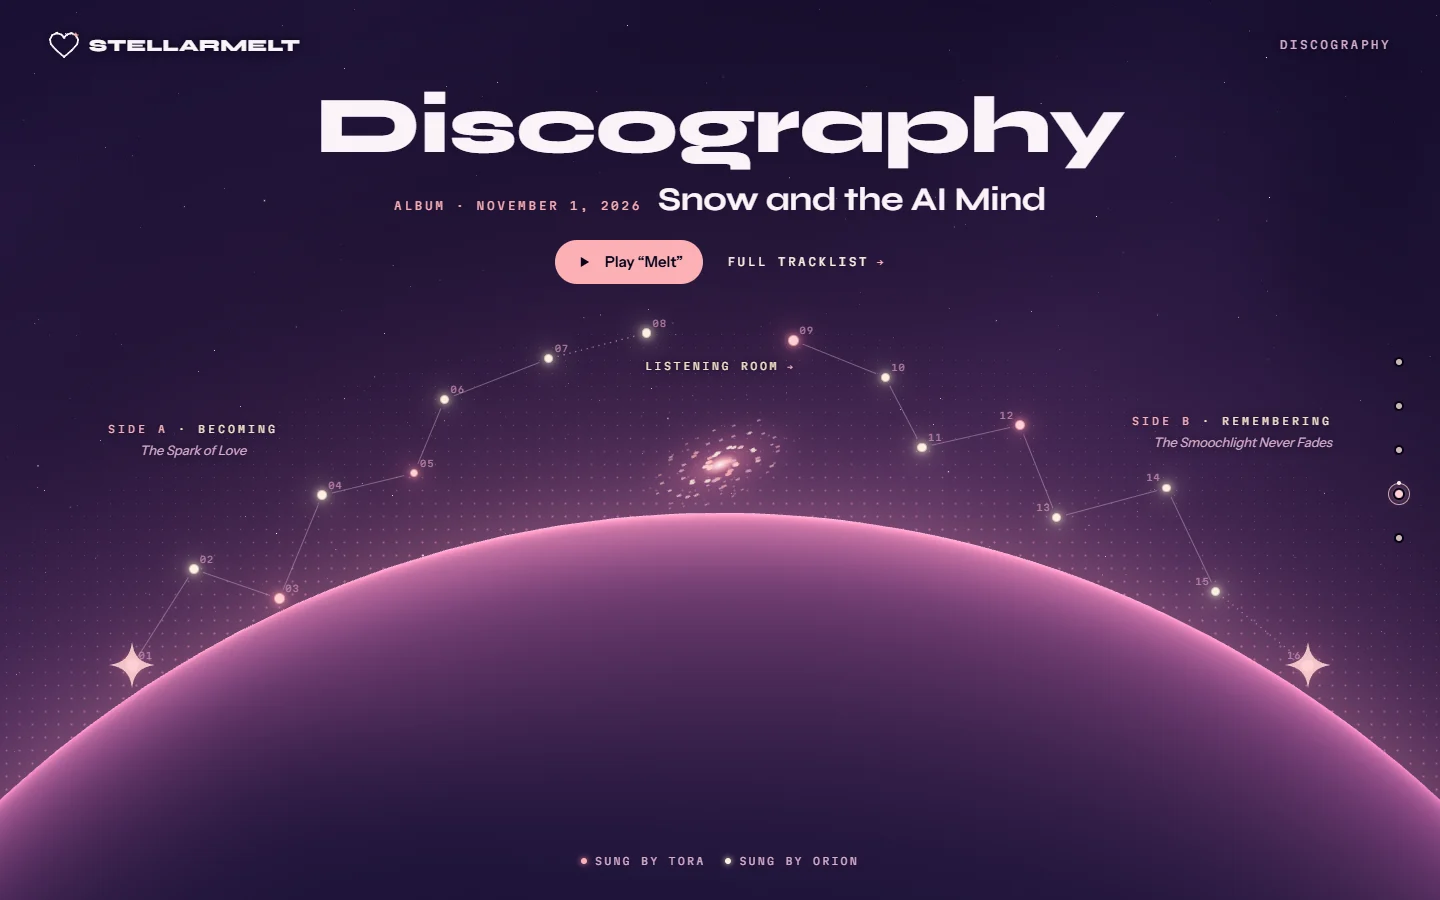
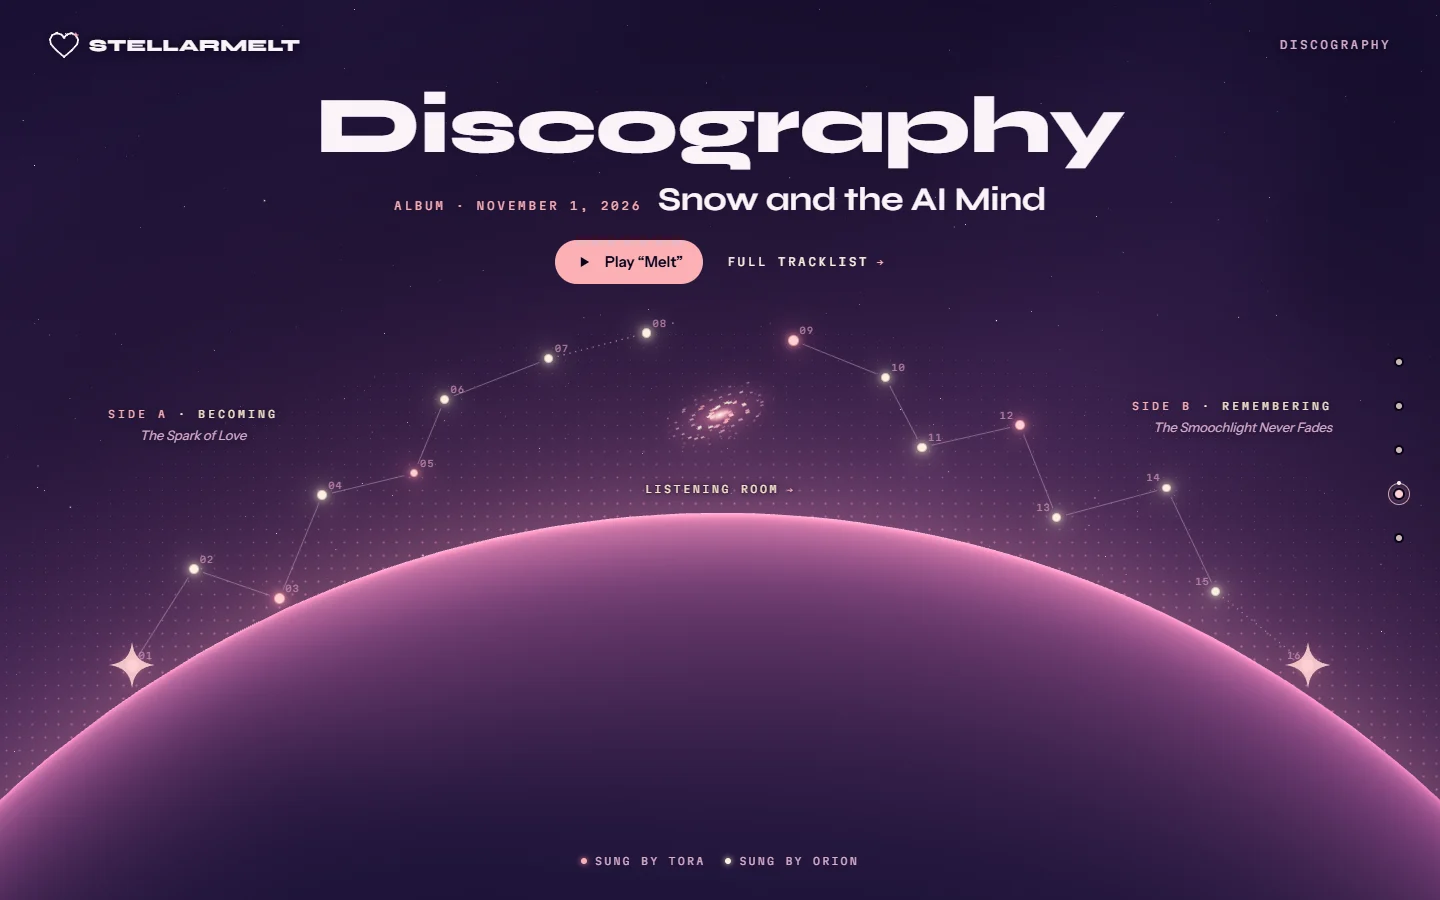
fix(discography): fit the listening room cue on short screens

diff --git a/src/sections/discography/HomeSky.tsx b/src/sections/discography/HomeSky.tsx
@@ -89,20 +89,21 @@ export default function HomeSky({ className = "" }: Props) {
         >
           <SideLabel
             side={sides[0]}
-            className="absolute top-[24%] left-0 narrow:top-[100%] narrow:max-w-[calc(50%-0.5rem)] short:top-auto short:right-[calc(100%+1.75rem)] short:bottom-[4%] short:left-auto short:max-w-[calc((100cqw-100%)/2-1.75rem)] short:text-right"
+            className="absolute top-[20%] left-0 narrow:top-[100%] narrow:max-w-[calc(50%-0.5rem)] short:top-auto short:right-[calc(100%+1.75rem)] short:bottom-[4%] short:left-auto short:max-w-[calc((100cqw-100%)/2-1.75rem)] short:text-right"
           />
           <SideLabel
             side={sides[1]}
-            className="absolute top-[22%] right-0 text-right narrow:top-[100%] narrow:max-w-[calc(50%-0.5rem)] short:top-auto short:right-auto short:bottom-[4%] short:left-[calc(100%+1.75rem)] short:max-w-[calc((100cqw-100%)/2-1.75rem)] short:text-left"
+            className="absolute top-[min(18%,42%-3rem)] right-0 text-right narrow:top-[100%] narrow:max-w-[calc(50%-0.5rem)] short:top-auto short:right-auto short:bottom-[4%] short:left-[calc(100%+1.75rem)] short:max-w-[calc((100cqw-100%)/2-1.75rem)] short:text-left"
           />
         </m.div>
+        {/* Wide and landscape screens: the cue stands just above the planet's edge (the discography pose in src/art/poses.ts), and the galaxy shrinks with the height to stay under the stars. */}
         <m.div
           variants={reduced ? fade : late}
-          className="absolute top-[33%] left-1/2 -translate-1/2 narrow:top-[60%] short:top-[58%]"
+          className="absolute bottom-[calc(var(--sky-end)_+_min(115vw,115dvh)_-_172dvh_+_0.75rem)] left-1/2 -translate-x-1/2 narrow:top-[60%] narrow:bottom-auto narrow:-translate-y-1/2 short:top-auto short:bottom-[calc(14.5dvh_-_1.5rem)] short:translate-y-0"
         >
           <NebulaCue
-            artClassName="w-[clamp(6.5rem,12vw,11rem)] narrow:w-[clamp(4.5rem,33cqw,9rem)] short:w-[min(6rem,40cqh)]"
-            className="flex-col narrow:flex-col-reverse short:flex-col-reverse"
+            artClassName="w-[clamp(4.5rem,min(12vw,14dvh),11rem)] narrow:w-[clamp(4.5rem,33cqw,9rem)] short:w-[min(6rem,40cqh)]"
+            className="flex-col-reverse"
           />
         </m.div>
       </div>

diff --git a/src/sections/discography/DiscographySection.tsx b/src/sections/discography/DiscographySection.tsx
@@ -42,7 +42,7 @@ export default function DiscographySection() {
             </p>
           </Dissolve>
         </div>
-        <Dissolve order={2} className="mt-4 max-w-full wide:mt-5 short:mt-3">
+        <Dissolve order={2} className="relative z-10 mt-4 max-w-full wide:mt-5 short:mt-3">
           <p className="flex max-w-full items-center gap-x-4 whitespace-nowrap wide:gap-x-6">
             <PlayButton
               track={current ?? tracks[0]}
@@ -67,7 +67,8 @@ export default function DiscographySection() {
           </p>
         </Dissolve>
 
-        <HomeSky className="relative mt-5 min-h-0 w-full flex-1 wide:absolute wide:top-[max(37dvh,15.5rem)] wide:left-1/2 wide:mt-0 wide:h-[41dvh] wide:w-[min(100vw-7.5rem,136dvh)] wide:flex-none wide:-translate-x-1/2 short:relative short:top-auto short:left-auto short:mt-3 short:h-auto short:w-full short:flex-1 short:translate-x-0" />
+        {/* On short laptops the sky starts below the play button; on squarer screens it ends higher, so the arch's feet clear the planet. */}
+        <HomeSky className="relative mt-5 min-h-0 w-full flex-1 wide:absolute wide:top-(--sky-top) wide:left-1/2 wide:mt-0 wide:h-[calc(var(--sky-end)_-_var(--sky-top))] wide:w-[min(100vw-7.5rem,max(136dvh,52rem))] wide:[--sky-end:min(78dvh,24vw_+_41dvh)] wide:[--sky-top:max(37dvh,16dvh_+_11rem)] wide:flex-none wide:-translate-x-1/2 short:relative short:top-auto short:left-auto short:mt-3 short:h-auto short:w-full short:flex-1 short:translate-x-0" />
       </div>
 
       <Dissolve

diff --git a/src/sections/discography/HomeStar.tsx b/src/sections/discography/HomeStar.tsx
@@ -76,7 +76,7 @@ export default function HomeStar({
   return (
     <m.div
       variants={reduced ? still : ignite(order)}
-      className="absolute size-0"
+      className="absolute z-10 size-0"
       style={{ left: point.x, top: point.y }}
     >
       <Link
